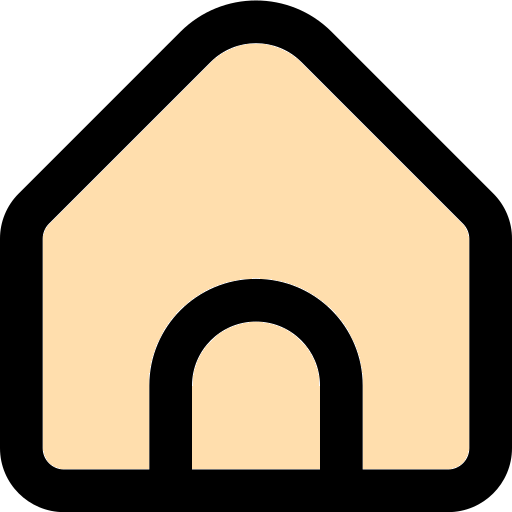
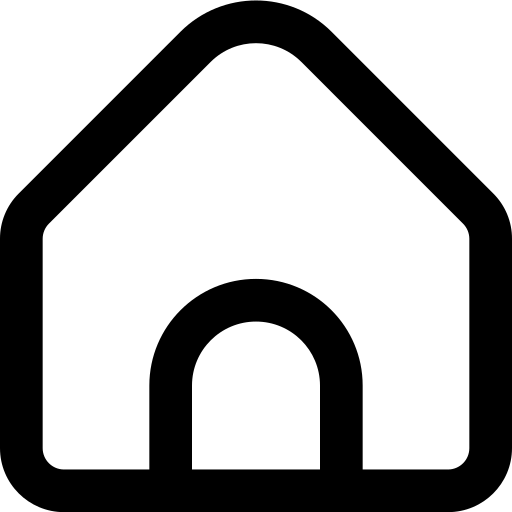
Assets added to navbar

diff --git a/lib/pages/home/navbar.dart b/lib/pages/home/navbar.dart
@@ -5,6 +5,7 @@ import 'package:new_app/pages/home/home_page.dart';
 import 'package:new_app/pages/shop/shop.dart';
 import 'package:new_app/pages/sports/interclasse.dart';
 import 'package:new_app/pages/xoss/xoss.dart';
+import 'package:new_app/utils/AppColors.dart';
 
 class navbar extends StatefulWidget {
   const navbar({super.key, required this.pageIndex});
@@ -24,13 +25,12 @@ class _navbarState extends State<navbar> {
   }
 
   NavigationDestination _destination(
-      String imagePath, String label, double width) {
+      String imagePath, String finalPath, String label, double width) {
     return NavigationDestination(
-      icon: Image.asset(imagePath, width: width, color: Colors.yellow),
+      icon: Image.asset(imagePath, width: width),
       selectedIcon: Image.asset(
-        imagePath,
+        finalPath,
         width: width,
-        color: Colors.yellow,
       ),
       label: label,
     );
@@ -40,14 +40,20 @@ class _navbarState extends State<navbar> {
   Widget build(BuildContext context) {
     return NavigationBar(
       // indicatorColor: Colors.white,
+      indicatorShape: CircleBorder(),
       selectedIndex: widget.pageIndex,
       onDestinationSelected: _onSelected,
       destinations: [
-        _destination('assets/images/home-icon.png', '', 30),
-        _destination("assets/images/home-icon.png", '', 30),
-        _destination('assets/images/home-icon.png', '', 30),
-        _destination('assets/images/home-icon.png', '', 30),
-        _destination('assets/images/home-icon.png', '', 30),
+        _destination('assets/images/Navbar-Icons/xoss.png',
+            'assets/images/Navbar-Icons/xoss1.png', '', 30),
+        _destination("assets/images/Navbar-Icons/megaphone.png",
+            "assets/images/Navbar-Icons/megaphone1.png", '', 30),
+        _destination('assets/images/Navbar-Icons/home.png',
+            'assets/images/Navbar-Icons/home1.png', '', 30),
+        _destination('assets/images/Navbar-Icons/interclasse.png',
+            'assets/images/Navbar-Icons/interclasse1.png', '', 30),
+        _destination('assets/images/Navbar-Icons/shop.png',
+            'assets/images/Navbar-Icons/shop1.png', '', 30),
       ],
     );
   }

diff --git a/lib/main.dart b/lib/main.dart
@@ -22,7 +22,7 @@ class MyApp extends StatelessWidget {
   Widget build(BuildContext context) {
     return MaterialApp(
       debugShowCheckedModeBanner: false,
-      home: Inscription(),
+      home: HomePage(),
     );
   }
 }
